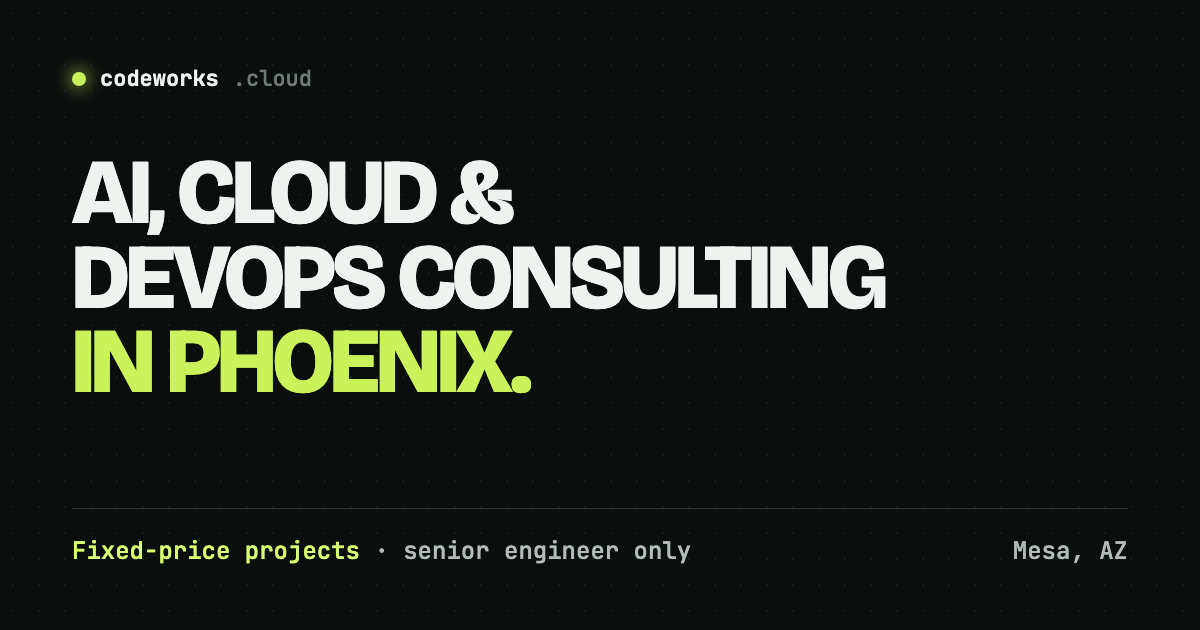
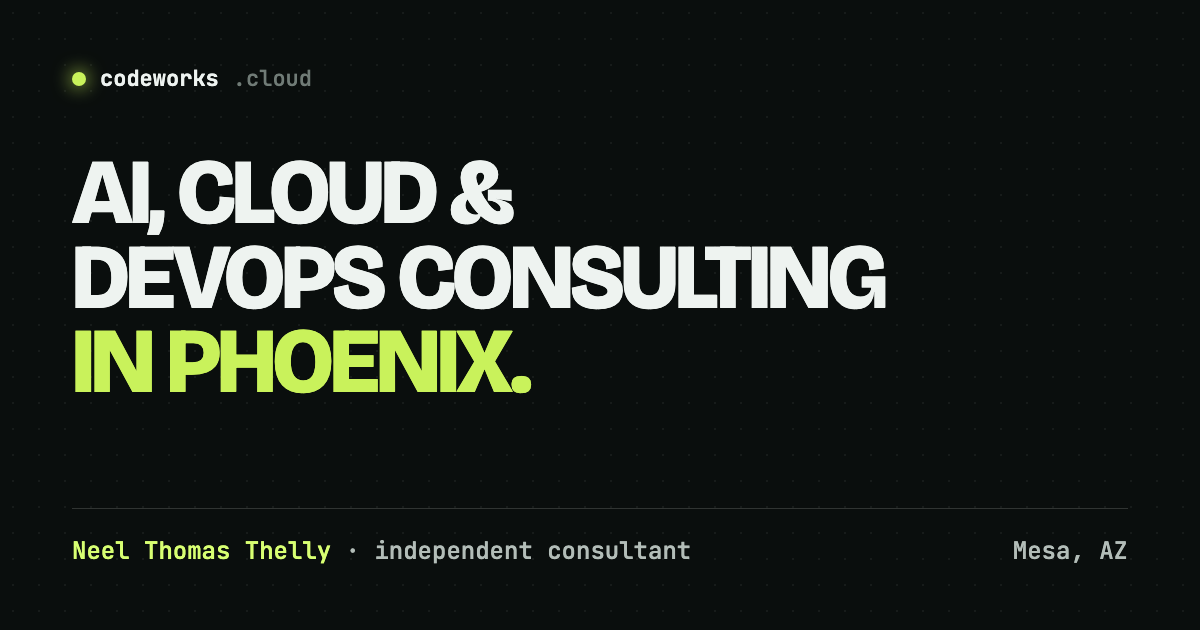
content: present Codeworks as Neel's consulting practice, tone down claims
Rewrites the site in first person: Neel is the consultant, Codeworks is
the name of his independent practice. Removes headline metrics and
"we" company voice, replaces the results section with a short, factual
background timeline, and adds a "What is Codeworks?" FAQ entry.

Changed region(s): [[0.0617, 0.8444, 0.5858, 0.9048]]

diff --git a/src/styles/global.css b/src/styles/global.css
@@ -301,7 +301,10 @@ body > * { position: relative; z-index: 2; }
 .proj__desc b { color: var(--ink); font-weight: 700; }
 .proj__desc + .proj__desc { margin-top: -0.6rem; }
 .sub__title { font-weight: 700; font-size: clamp(1.3rem, 2.6vw, 1.7rem); letter-spacing: -0.01em; margin-top: 3.2rem; }
-.proj-grid--tight { margin-top: 1.4rem; }
+.side { margin-top: 1.2rem; max-width: 52rem; }
+.side a { color: var(--ink); font-weight: 700; margin-right: 0.35rem; }
+.side a:hover { color: var(--accent-ink); }
+.sec__intro a { border-bottom: 1px solid var(--accent-dim); }
 
 /* --- FAQ ------------------------------------------------------------------- */
 .faq { margin-top: 2.6rem; max-width: 52rem; border-top: 1px solid var(--line); }
